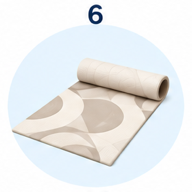
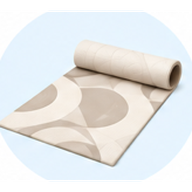
take the printed numbers off the category pictures, and open one before searching it
The drawings were cut from a numbered contact sheet and the numbers came with them --
a navy 7 above the bathtub, a 3 above the carpet. At 26px nobody could read them, which
is why they lasted a week. Cut again by finding the disc: a row belonging to the drawing
spans most of the width, a row belonging to a number spans about a tenth, so taking the
wide rows keeps one and drops the other in all thirteen.

And tapping a category no longer runs the search. It opens the category -- the drawing
at the size it was drawn for, the search behind its own button. Several of these names
are a glance apart from each other, so the list was answering before it had been asked.

diff --git a/src/components/CategorySheet.tsx b/src/components/CategorySheet.tsx
@@ -1,0 +1,66 @@
+'use client';
+
+import Image from 'next/image';
+import {X} from 'lucide-react';
+import {useCallback,useEffect,useRef,useState} from 'react';
+import {CategoryIcon,hasCategoryPicture} from './CategoryIcon';
+import type {Locale} from '@/lib/types';
+
+// Tapping a category used to run the search on the spot. That is one tap for a decision the
+// reader had not made yet: the names are short and several are close together -- "Ev
+// Gereçleri" and "Ev Aksesuarları" are not the same shelf and do not read as different words
+// at a glance -- so the list was answering before it had been asked.
+//
+// It opens the category instead, at the size the picture was drawn for, and the search is
+// behind its own button. The picture is the point: it says what the category means faster
+// than the name does, which is what pictures are for.
+const copy:Record<Locale,{search:string;close:string}>={
+  tr:{search:'Bana en yakın mağazayı ara',close:'Kapat'},
+  en:{search:'Find the nearest store',close:'Close'},
+  de:{search:'Nächstgelegenes Geschäft finden',close:'Schließen'},
+  ru:{search:'Найти ближайший магазин',close:'Закрыть'},
+};
+
+const MOTION_MS=520;
+
+export function CategorySheet({slug,name,locale,onSearch,onClose}:{
+  slug:string;name:string;locale:Locale;onSearch:()=>void;onClose:()=>void;
+}){
+  const words=copy[locale];
+  const action=useRef<HTMLButtonElement>(null);
+  const [leaving,setLeaving]=useState(false);
+
+  const close=useCallback(()=>{
+    if(window.matchMedia('(prefers-reduced-motion: reduce)').matches){onClose();return;}
+    setLeaving(true);
+    window.setTimeout(onClose,MOTION_MS);
+  },[onClose]);
+
+  useEffect(()=>{
+    action.current?.focus();
+    const escape=(event:KeyboardEvent)=>{if(event.key==='Escape')close();};
+    window.addEventListener('keydown',escape);
+    return()=>window.removeEventListener('keydown',escape);
+  },[close]);
+
+  return <div className={`dialog-backdrop category-sheet-backdrop${leaving?' is-leaving':''}`} role="presentation"
+    onMouseDown={event=>{if(event.target===event.currentTarget)close();}}>
+    <div className="category-sheet" role="dialog" aria-modal="true" aria-labelledby="category-sheet-title">
+      <header>
+        <h2 id="category-sheet-title">{name}</h2>
+        <button type="button" className="icon-button" onClick={close} aria-label={words.close}><X aria-hidden="true"/></button>
+      </header>
+      {/* Drawn at 192px and shown at 26 in the list. Here it gets the size it was made for.
+          A category without a drawing falls back to its line icon rather than to an empty
+          frame -- three of them have no picture yet and an empty box would read as a fault. */}
+      <div className="category-sheet-art">
+        {hasCategoryPicture(slug)
+          ?<Image src={`/categories/${slug}.png`} width={192} height={192} alt="" aria-hidden="true"/>
+          :<CategoryIcon slug={slug}/>}
+      </div>
+      <button ref={action} type="button" className="button primary category-sheet-search" onClick={onSearch}>
+        {words.search}
+      </button>
+    </div>
+  </div>;
+}

diff --git a/src/components/SearchExperience.tsx b/src/components/SearchExperience.tsx
@@ -23,6 +23,7 @@ import { RatingStars } from './Rating';
 import { SearchOverlay } from './SearchOverlay';
 import { LocationAlert } from './LocationAlert';
 import {CategoryIcon} from './CategoryIcon';
+import {CategorySheet} from '@/components/CategorySheet';
 import {TimedNudge} from './TimedNudge';
 
 type SearchPlace={source?:'device'|'manual';label:string;city?:string;placeID?:string;address?:string;accuracyMeters?:number;coordinates:Coordinates};
@@ -716,6 +717,9 @@ export function SearchExperience() {
   const nearbyPhrases=nearbyKey?nearby.items:[];
 
   const [categories,setCategories]=useState<{slug:string;name:string;search_count:number}[]>([]);
+  // Which category the reader opened, if any. Holding the whole row rather than its slug
+  // keeps the sheet from having to look the name up again in a list it does not own.
+  const [openCategory,setOpenCategory]=useState<{slug:string;name:string}>();
   // Built inside the effect so it is recomputed with the locale it belongs to, rather than
   // becoming a dependency that changes on every render.
   useEffect(()=>{
@@ -821,7 +825,13 @@ export function SearchExperience() {
         they are the answer to "what shall I type", which is a question somebody only has
         once they have opened the panel to type in. The categories stay -- they are a way
         to browse rather than a way to repeat yourself. */}
-    {!data&&!loading&&<div className="search-suggestions"><div><h2>{t('categories')}</h2><div className="category-links">{categories.map(category=><button onClick={()=>fill(category.name)} key={category.slug}><CategoryIcon slug={category.slug}/><span>{category.name}</span></button>)}</div></div></div>}</header>
+    {!data&&!loading&&<div className="search-suggestions"><div><h2>{t('categories')}</h2><div className="category-links">{categories.map(category=><button onClick={()=>setOpenCategory(category)} key={category.slug}><CategoryIcon slug={category.slug}/><span>{category.name}</span></button>)}</div></div></div>}
+    {/* The category opens before it searches. Tapping a name used to run the search on the
+        spot, which answered a question the reader had not finished asking -- several of these
+        names are a glance apart from each other. */}
+    {openCategory&&<CategorySheet slug={openCategory.slug} name={openCategory.name} locale={locale}
+      onClose={()=>setOpenCategory(undefined)}
+      onSearch={()=>{const chosen=openCategory;setOpenCategory(undefined);fill(chosen.name);}}/>}</header>
     {loading&&<SearchOverlay/>}
     {!loading&&data?.guidance&&<section className="guidance-card" role="alert"><p>{data.guidance.message}</p><h2>{t('categories')}</h2><div className="category-links">{categories.map(category=><button onClick={()=>fill(category.name)} key={category.slug}><CategoryIcon slug={category.slug}/><span>{category.name}</span></button>)}</div></section>}
     {!loading&&data&&!data.guidance&&<section className="results-layout"><div className="result-list">{/* What the list is and how it is ordered, said as two

diff --git a/src/app/daylight.css b/src/app/daylight.css
@@ -1186,3 +1186,29 @@ svg{stroke-width:2}
   .category-links button>.category-icon.is-picture{width:44px;height:44px}
   .category-links button>.category-icon svg{width:24px;height:24px}
 }
+
+/* The category sheet. Same motion as the location dialog and the nudge, because they are all
+   the same gesture: a panel arriving over the page. The picture is the reason the sheet
+   exists, so it gets the room -- drawn at 192px and shown at 26 in the list, which is most of
+   a drawing thrown away. */
+.category-sheet-backdrop{z-index:88;animation:backdrop-in .52s cubic-bezier(.16,1,.3,1) both}
+.category-sheet-backdrop.is-leaving{animation:backdrop-out .52s cubic-bezier(.16,1,.3,1) both;pointer-events:none}
+.category-sheet{width:min(420px,100%);display:grid;gap:16px;padding:24px;background:var(--surface);border-radius:var(--r-lg);box-shadow:var(--lift);animation:alert-in .52s cubic-bezier(.16,1,.3,1) both}
+.category-sheet-backdrop.is-leaving .category-sheet{animation:alert-out .52s cubic-bezier(.16,1,.3,1) both}
+.category-sheet header{display:flex;align-items:center;justify-content:space-between;gap:12px}
+.category-sheet h2{margin:0;font-size:24px;line-height:1.15;letter-spacing:-.02em}
+.category-sheet header .icon-button{margin-right:-10px}
+.category-sheet-art{display:grid;place-items:center;padding:10px 0}
+.category-sheet-art img{width:184px;height:184px;border-radius:50%;object-fit:cover}
+/* The three categories still on a line icon get the same circle, drawn rather than filled. */
+.category-sheet-art .category-icon{width:184px;height:184px;border-radius:50%;background:var(--accent-wash);color:var(--clay)}
+.category-sheet-art .category-icon svg{width:76px;height:76px}
+.category-sheet-search{min-height:52px}
+.category-sheet-search.button.primary{background:var(--clay);color:var(--surface)}
+.category-sheet-search.button.primary:hover{background:color-mix(in srgb,var(--clay) 88%,var(--ink))}
+@media(max-width:600px){
+  .category-sheet-backdrop{align-items:end;padding:0}
+  .category-sheet{border-radius:var(--r-lg) var(--r-lg) 0 0;align-self:end;padding:22px 20px calc(22px + env(safe-area-inset-bottom))}
+  .category-sheet-art img,.category-sheet-art .category-icon{width:156px;height:156px}
+}
+@media(prefers-reduced-motion:reduce){.category-sheet-backdrop,.category-sheet,.category-sheet-backdrop.is-leaving,.category-sheet-backdrop.is-leaving .category-sheet{animation:none}}

diff --git a/src/components/CategoryIcon.tsx b/src/components/CategoryIcon.tsx
@@ -44,6 +44,11 @@ const icons:Record<string,LucideIcon>={
 // would be a different set, and a mixed set is worse than a mixed medium.
 const pictures=new Set(['bedding','furniture','home_textile','kitchenware','curtain','carpet','bathroom','lighting','home_accessories','small_appliances','major_appliances','household','garden']);
 
+// Whether a category has a drawing of its own. Thirteen do; decoration, tableware and
+// storage are still on line icons, and a caller that wants to show the drawing large needs
+// to know which it is going to get before it reserves the room.
+export function hasCategoryPicture(slug:string){return pictures.has(slug);}
+
 export function CategoryIcon({slug}:{slug:string}){
   if(pictures.has(slug))return <span className="category-icon is-picture" aria-hidden="true">
     <Image src={`/categories/${slug}.png`} width={96} height={96} alt=""/>

diff --git a/docs/CHANGELOG.md b/docs/CHANGELOG.md
@@ -8,6 +8,35 @@ value involved.
 
 ---
 
+## There was a number printed on every category picture
+
+The drawings came as one contact sheet and were cut out of it. The sheet was numbered, and
+the numbers came with them: a navy "7" sitting above the bathtub, a "3" above the carpet.
+Shown at 26px in the list nobody could read them, which is why they survived a week.
+
+Cut out again, this time by finding the disc rather than by guessing the grid. A row that is
+part of the drawing spans most of the width; a row that is part of a number spans about a
+tenth. Taking only the wide rows leaves the disc and drops the number, in all thirteen, with
+no per-image measurement to keep in step.
+
+---
+
+## A category opens before it searches
+
+Tapping a category name ran the search on the spot -- one tap for a decision the reader had
+not finished making. Several of these names are a glance apart: "Ev Gereçleri" and "Ev
+Aksesuarları" are not the same shelf and do not read as different words at speed.
+
+It opens the category now: the drawing at the size it was drawn for, and the search behind
+its own button. The picture is the point, and it had been shown at 26px out of 192 -- most of
+a drawing thrown away. Three categories still on line icons get the same circle, drawn rather
+than filled, rather than an empty frame that would read as a fault.
+
+Same motion as the location dialog and the nudge, because it is the same gesture: a panel
+arriving over the page.
+
+---
+
 ## One frame of the page showing through the panel
 
 Reported twice as two things -- "the top of the page flashes before the search panel takes
